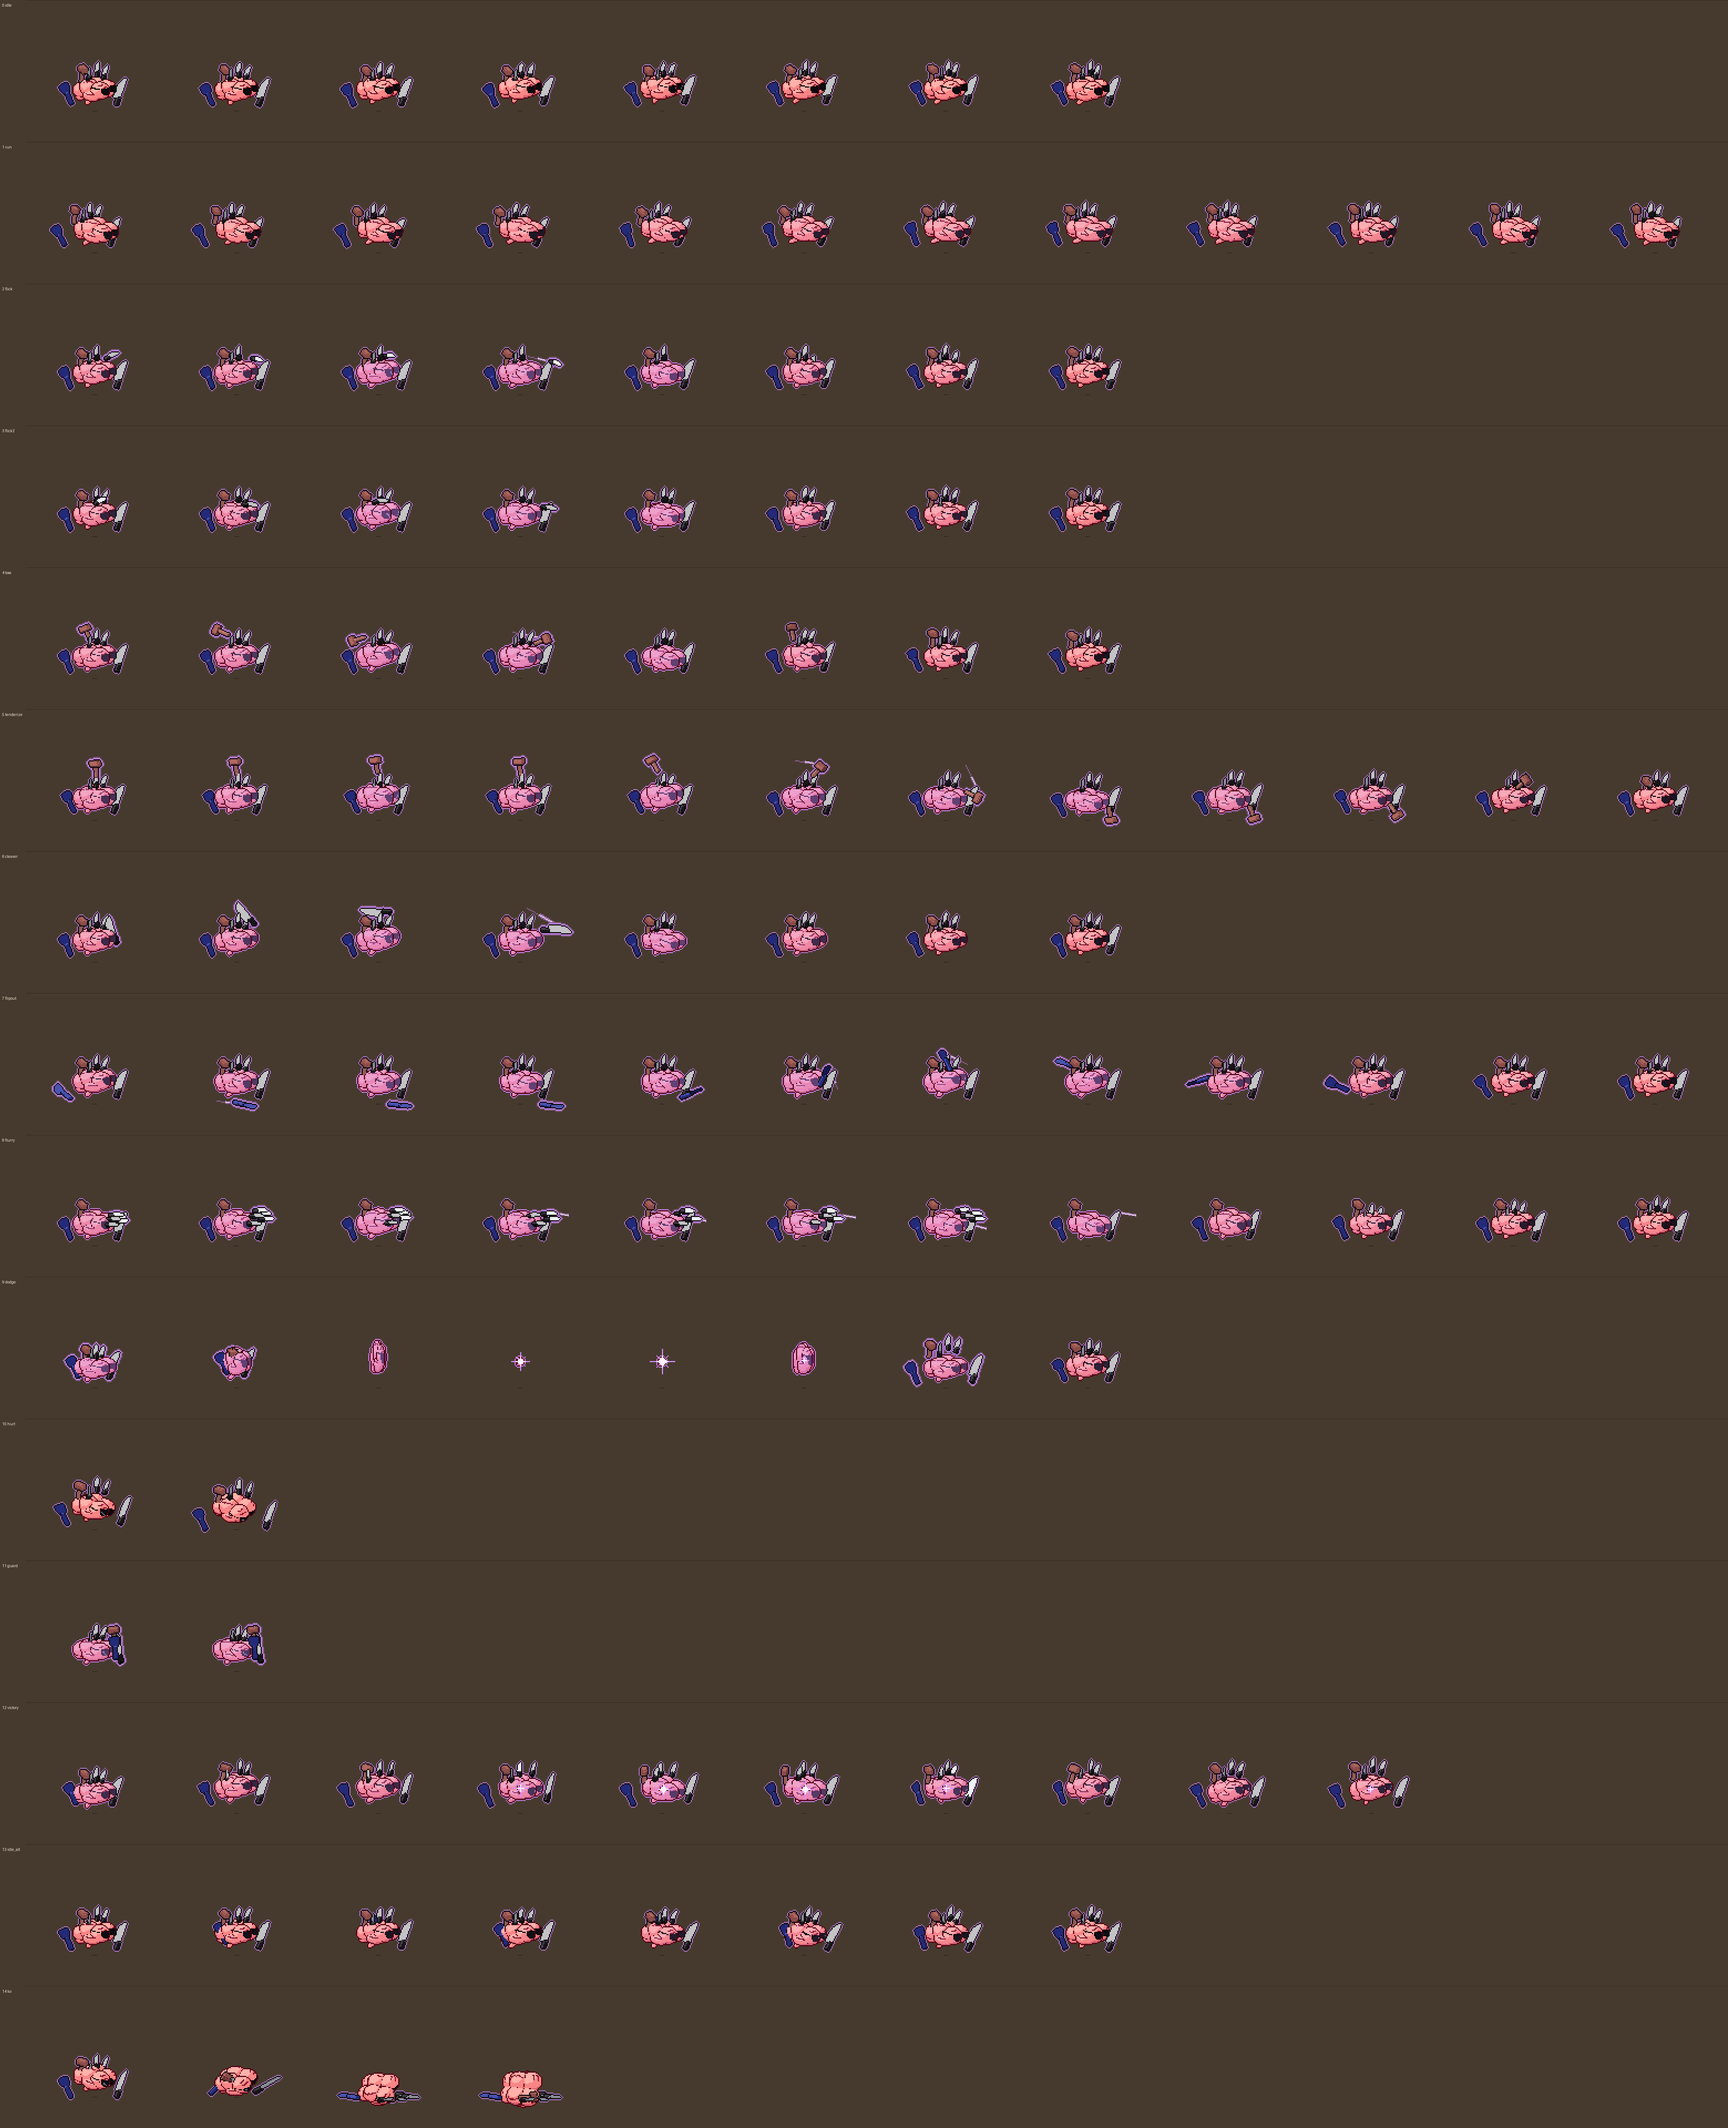
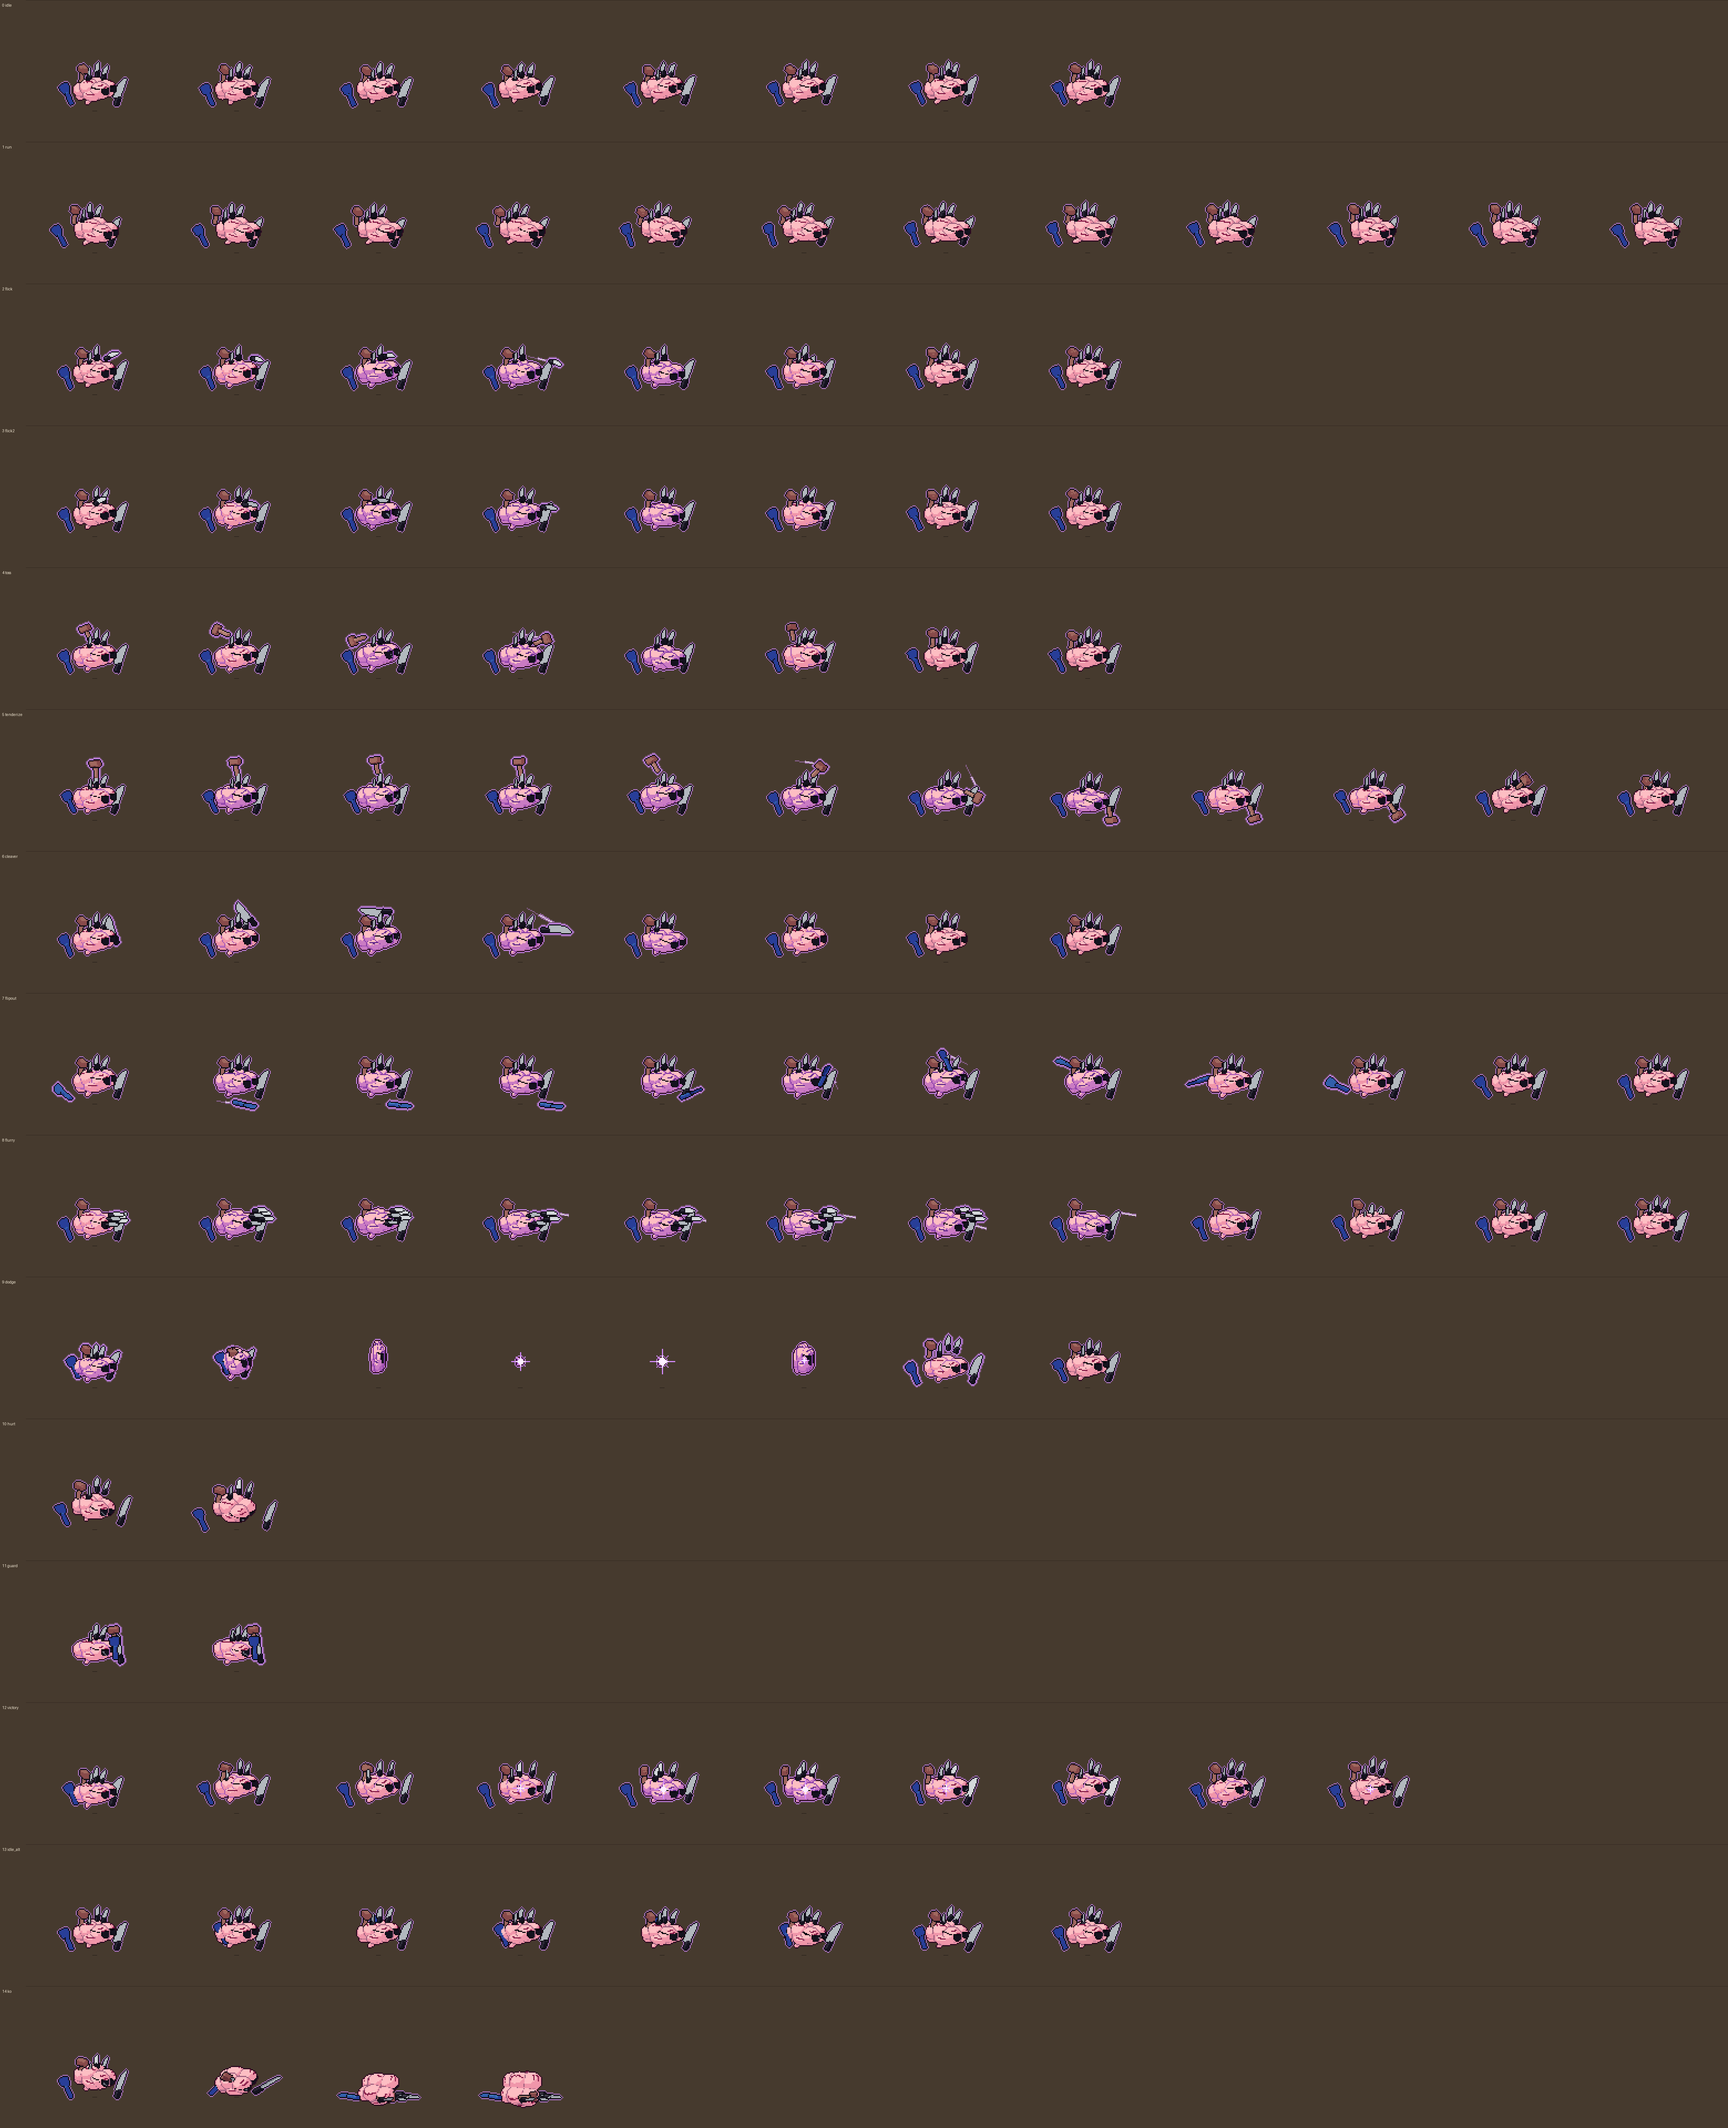
Cerebro on the master palette: splat3d's shading and outlines on his buffers
Drops his private shade_buffers and outline: S.configure(MAT) with pink, steel,
ink, blue and rust ramps, then S.shade / S.outline on the rasteriser's buffers.
The brain caps at the pink light step (no speckled highlights on the lobes),
every lobe seam in the deep step (SOFT_SEAM 0), tools outlined black through
outline_mats, no line where the stem joins. The flush swaps palette colours
in two steps instead of blending off the palette. Sheets regenerated; frame
sizes, rows and JSON unchanged.

diff --git a/tools/gen_cerebro.py b/tools/gen_cerebro.py
@@ -22,10 +22,10 @@ with the same cameras. A point is (lat, up, fwd): lat toward his right side, up 
 floor, fwd the way he faces. Every piece is sampled densely as 3D points (lobes as
 ellipsoids, the stem as a tube, blades as flat plates) and splatted into a depth buffer,
 so a brain made of overlapping lobes gets the right overlaps from any angle. Then, per
-pixel: three-tone shading from the surface normal (lit from the top left), a dark
-outline round the silhouette and along every seam between pieces (the lines between the
-lobes), decals in the brain's own coordinates (sunglasses, wrinkles), and the psychic
-glow.
+pixel: splat3d's ramp shading on master-palette ramps (tools/palette.py; lit from the
+top left, with a rim light), the wrinkles and sunglasses in the brain's own coordinates,
+splat3d's outline round the silhouette (plum round the brain, black round the tools) and
+along every seam between pieces (the lines between the lobes), and the psychic glow.
 
 The tools are posed in character space, not on the brain, so they drift on their own
 as he bobs. A tool that's been thrown is simply missing from the frame; the game draws
@@ -41,6 +41,10 @@ import sys
 import numpy as np
 from PIL import Image, ImageDraw
 
+sys.path.insert(0, os.path.dirname(os.path.abspath(__file__)))
+import palette as PAL  # noqa: E402  (P is the pose constructor below)
+import splat3d as S  # noqa: E402  (the shading and outline pass, and the animation tools)
+
 ROOT = os.path.abspath(os.path.join(os.path.dirname(__file__), ".."))
 OUT = os.path.join(ROOT, "assets", "sprites", "cerebro.png")
 PREVIEW = os.path.join(ROOT, "docs", "cerebro_preview.png")
@@ -55,20 +59,30 @@ VIEWS = {
     "up_side": {"w": 128, "h": 128, "origin": (64, 76)},
 }
 
-# Palette, sampled from the character sheet. Each material: (base, light, dark).
+# Palette: master-palette ramps (tools/palette.py) picked for the character sheet's
+# colours. The brain is the pink ramp Pete's skin uses, capped at its light step: a matte
+# brain of a dozen lobes salts itself with near-white specks if every lobe gets the
+# highlight. The tools keep the sheet's look (steel blades, black handles, a navy
+# spatula, a rust mallet), each outlined in black.
+BRAIN = PAL.ramp("pink")[:4] + [PAL.ramp("pink")[3]]
 MAT = {
-    "brain": ((248, 134, 134), (255, 178, 170), (214, 96, 106)),
-    "stem": ((246, 138, 132), (255, 176, 166), (210, 98, 102)),
-    "blade": ((195, 195, 198), (238, 238, 244), (140, 142, 152)),
-    "handle": ((24, 22, 24), (70, 66, 72), (8, 8, 10)),
-    "spatula": ((36, 42, 122), (74, 84, 176), (20, 24, 80)),
-    "mallet": ((140, 76, 72), (176, 104, 96), (100, 52, 52)),
-    "mallet_h": ((150, 92, 86), (186, 122, 110), (108, 62, 58)),
-    "glass": ((10, 10, 12), (60, 62, 72), (0, 0, 0)),
+    "brain": BRAIN,
+    "stem": BRAIN,
+    "blade": ("concrete", 1),     # cool steel: the light end of the steel line
+    "handle": "ink",
+    "spatula": "blue",
+    "mallet": "rust",
+    "mallet_h": ("rust", 1),      # the handle a step lighter than the head
+    "glass": PAL.flat("ink"),
 }
-OUTLINE = (80, 0, 18, 255)       # the sheet's dark maroon line
-OUTLINE_TOOL = (14, 12, 14, 255)  # tools are outlined in black on the sheet
+OUTLINE_TOOL = PAL.INKS["ink"] + (255,)  # tools are outlined in black on the sheet
 TOOL_MATS = {"blade", "handle", "spatula", "mallet", "mallet_h", "glass"}
+# Shading, seams and outlines are splat3d's pass on this rig's buffers: the brain's line
+# in its ramp's ink (plum, the palette's take on the sheet's maroon), every tool's black.
+S.configure(MAT, outline_mats={m: OUTLINE_TOOL for m in TOOL_MATS})
+# The lines between the lobes are the brain's drawing: every seam in the deep step, not
+# the softer dark step splat3d gives touching pieces of one material.
+S.SOFT_SEAM = 0.0
 PSY = (213, 140, 255)  # his telekinesis, the game's psychic colour (fx_color)
 MAT_ID = {name: i + 1 for i, name in enumerate(MAT)}
 ID_MAT = {i: name for name, i in MAT_ID.items()}
@@ -656,27 +670,9 @@ def rasterise(pose, view):
     }
 
 
-def shade_buffers(r):
-    cam = r["cam"]
-    mat = r["mat"]
-    filled = mat > 0
-    img = np.zeros((H, W, 4), np.uint8)
-    sd = cam.screen_dir(r["nrm"].reshape(-1, 3)).reshape(H, W, 3)
-    light = np.array([-0.55, -0.7, 0.45])
-    light /= np.linalg.norm(light)
-    lum = sd @ light
-    for name, mid in MAT_ID.items():
-        m = filled & (mat == mid)
-        if not m.any():
-            continue
-        base, li, dk = MAT[name]
-        col = np.zeros((H, W, 3), np.uint8)
-        col[:] = base
-        col[lum > 0.5] = li
-        col[lum < -0.12] = dk
-        img[m, :3] = col[m]
-        img[m, 3] = 255
-    return img
+GLASS_RIM = PAL.LINES["neutral"][0] + (255,)   # the sunglasses: frames,
+GLASS_LENS = PAL.LINES["neutral"][1] + (255,)  # lenses a step up,
+GLINT = PAL.nearest((120, 128, 150)) + (255,)   # and the shine across them
 
 
 def decals(r, img):
@@ -707,25 +703,25 @@ def decals(r, img):
                 front = brain & (h > -5.0)
                 lens = front & (rr < LENS_R ** 2) & (v < 0.8)
                 rim = front & (rr < (LENS_R + 0.9) ** 2) & (v < 1.6) & ~lens
-            img[rim] = (0, 0, 0, 255)
-            img[lens] = (12, 12, 16, 255)
+            img[rim] = GLASS_RIM
+            img[lens] = GLASS_LENS
             lens_px |= lens
             g = p.glint
             with np.errstate(invalid="ignore"):
                 shine = lens & (np.abs((u * s + v * 0.9) - (-LENS_R * 0.9 + g * LENS_R * 1.8)) < 0.7) & (v < -0.9)
-            img[shine] = (120, 128, 150, 255)
+            img[shine] = GLINT
         with np.errstate(invalid="ignore"):
             bridge = brain & (fwd > 15.0) & (np.abs(lat) < 5.5) & (np.abs(up - (LENS_C[1] - drop + 0.4)) < 0.8)
-        img[bridge] = (0, 0, 0, 255)
+        img[bridge] = GLASS_RIM
         # the arms, back along each side over the ears
         with np.errstate(invalid="ignore"):
             arm = brain & (np.abs(lat) > 12.5) & (fwd > 2.0) & (fwd < 15.0) \
                 & (np.abs(up - (LENS_C[1] - drop + 0.6 + (15.0 - fwd) * 0.15)) < 0.6)
-        img[arm] = (0, 0, 0, 255)
+        img[arm] = GLASS_RIM
     return img
 
 
-GYRI_COL = (128, 22, 44, 255)
+GYRI_COL = PAL.LINES["wine"][2] + (255,)  # the wrinkles: a wine line, darker than the seams
 
 
 def gyri(r, img):
@@ -762,45 +758,18 @@ def gyri(r, img):
 
 
 def outline(r, img):
-    a = img.copy()
-    filled = a[:, :, 3] > 0
+    """splat3d's outline (each material's ink, black round the tools, seams in the deep
+    step), except where the stem grows out of the brain: no line there."""
+    a = S.outline(r, img)
     mat = r["mat"]
-    part = r["part"]
     z = r["z"]
-    tool = np.isin(mat, [MAT_ID[m] for m in TOOL_MATS])
-    # silhouette: transparent pixels next to a filled one
-    ring = np.zeros_like(filled)
-    owner_tool = np.zeros_like(filled)
+    join = np.zeros(mat.shape, bool)
     for dx, dy in ((1, 0), (-1, 0), (0, 1), (0, -1)):
-        sh = np.roll(np.roll(filled, dy, 0), dx, 1)
-        tl = np.roll(np.roll(tool, dy, 0), dx, 1)
-        ring |= sh & ~filled
-        owner_tool |= sh & tl & ~filled
-    a[ring] = OUTLINE
-    a[ring & owner_tool] = OUTLINE_TOOL
-    # seams: a filled pixel next to a different piece that is nearer (or level) gets a line
-    seam = np.zeros_like(filled)
-    seam_tool = np.zeros_like(filled)
-    for dx, dy in ((1, 0), (-1, 0), (0, 1), (0, -1)):
-        pz = np.roll(np.roll(z, dy, 0), dx, 1)
-        pp = np.roll(np.roll(part, dy, 0), dx, 1)
-        pf = np.roll(np.roll(filled, dy, 0), dx, 1)
-        pt = np.roll(np.roll(tool, dy, 0), dx, 1)
-        diff = filled & pf & (pp != part) & (pz > z + 0.8)
-        seam |= diff
-        seam_tool |= diff & (pt | tool)
-    # stems join the brain without a seam (they grow out of it)
-    stem_join = (mat == MAT_ID["stem"]) | (mat == MAT_ID["brain"])
-    neigh_soft = np.zeros_like(filled)
-    for dx, dy in ((1, 0), (-1, 0), (0, 1), (0, -1)):
-        pm = np.roll(np.roll(mat, dy, 0), dx, 1)
-        pz = np.roll(np.roll(z, dy, 0), dx, 1)
+        pm = S._shifted(mat, dx, dy, 0)
+        pz = S._shifted(z, dx, dy, -np.inf)
         with np.errstate(invalid="ignore"):
-            neigh_soft |= (mat == MAT_ID["brain"]) & (pm == MAT_ID["stem"]) & (np.abs(pz - z) < 2.5)
-    keep = seam & ~(neigh_soft & stem_join)
-    sc = np.array(OUTLINE, np.uint8)
-    a[keep] = sc
-    a[keep & seam_tool] = OUTLINE_TOOL
+            join |= (mat == MAT_ID["brain"]) & (pm == MAT_ID["stem"]) & (np.abs(pz - z) < 2.5)
+    a[join] = img[join]
     return a
 
 
@@ -814,14 +783,28 @@ def _grow(m, n=1):
     return out
 
 
+# His flush, in two palette steps instead of a blend (which would leave the palette): at
+# half push the brain's shadows turn violet and its lit side stays pink; at full push the
+# whole brain is pink-violet with pink only in the light. Each maps the brain's colours (the
+# ramp, its seams, the wrinkles) one for one.
+_V = PAL.LINES["violet"]
+FLUSH_HALF = {BRAIN[0]: _V[3], BRAIN[1]: _V[4], BRAIN[2]: BRAIN[2], BRAIN[3]: BRAIN[3]}
+FLUSH_FULL = {BRAIN[0]: _V[2], BRAIN[1]: _V[3], BRAIN[2]: _V[4], BRAIN[3]: BRAIN[3],
+              GYRI_COL[:3]: _V[1]}
+
+
 def flush(r, img):
-    """His brain turns violet as he pushes with his mind."""
-    k = 0.42 * r["pose"].psy
-    if k <= 0:
+    """His brain turns violet as he pushes with his mind (after the outline, so the seams
+    between the lobes turn with it)."""
+    psy = r["pose"].psy
+    if psy < 0.5:
         return img
+    table = FLUSH_FULL if psy >= 0.85 else FLUSH_HALF
     m = (r["mat"] == MAT_ID["brain"]) | (r["mat"] == MAT_ID["stem"])
-    col = img[m, :3].astype(float)
-    img[m, :3] = (col * (1.0 - k) + np.array(PSY) * k).astype(np.uint8)
+    src = img[:, :, :3].copy()
+    for a, b in table.items():
+        hit = m & np.all(src == np.array(a, np.uint8), axis=2)
+        img[hit, :3] = b
     return img
 
 
@@ -907,11 +890,11 @@ def flash_burst(r, img):
 def render(pose, view):
     global W, H
     r = rasterise(pose, view)
-    img = shade_buffers(r)
+    img = S.shade(r)
     img = gyri(r, img)
     img = decals(r, img)
-    img = flush(r, img)
     img = outline(r, img)
+    img = flush(r, img)
     img = glow(r, img)
     img = smears(r, img)
     img = flash_burst(r, img)
@@ -1049,9 +1032,6 @@ def preview(sh, rows, fw, fh, origin, scale, path):
 # on its own lag, so the kit never moves as one block. Hurt, guard and the knockout are as
 # they were. `python3 tools/gen_cerebro.py anim` renders the previews against the sheets
 # before the pass (OLD_REF).
-
-sys.path.insert(0, os.path.dirname(os.path.abspath(__file__)))
-import splat3d as S  # noqa: E402  (only its animation tools: tween, ease, EASE_8, lag)
 
 GLINT_OFF = -1.0  # a glint position off the lenses: no shine on that frame
 # How many frames late each tool follows the brain (the mallet is the heaviest).
@@ -1467,7 +1447,7 @@ VIEW_ROWS = ROWS[:-1]
 # `python3 tools/gen_cerebro.py anim` renders preview GIFs into docs/anim_preview/, and
 # `python3 tools/anim_preview.py --check cerebro` checks the JSON's timelines against ROWS.
 # In-betweens and overlap come from splat3d (tween, cycle, lag, lag_at), which only touch
-# pose attributes; this generator's renderer is its own.
+# pose attributes; this generator's rasteriser is its own (its shading is splat3d's).
 ANIM_CYCLES = {"idle": 64, "run": 24}  # ticks per cycle (frames x idle_ticks / run_ticks)
 OLD_REF = os.environ.get("CEREBRO_OLD_REF", "25d385d")  # main before the pass: the "current" frames
 
